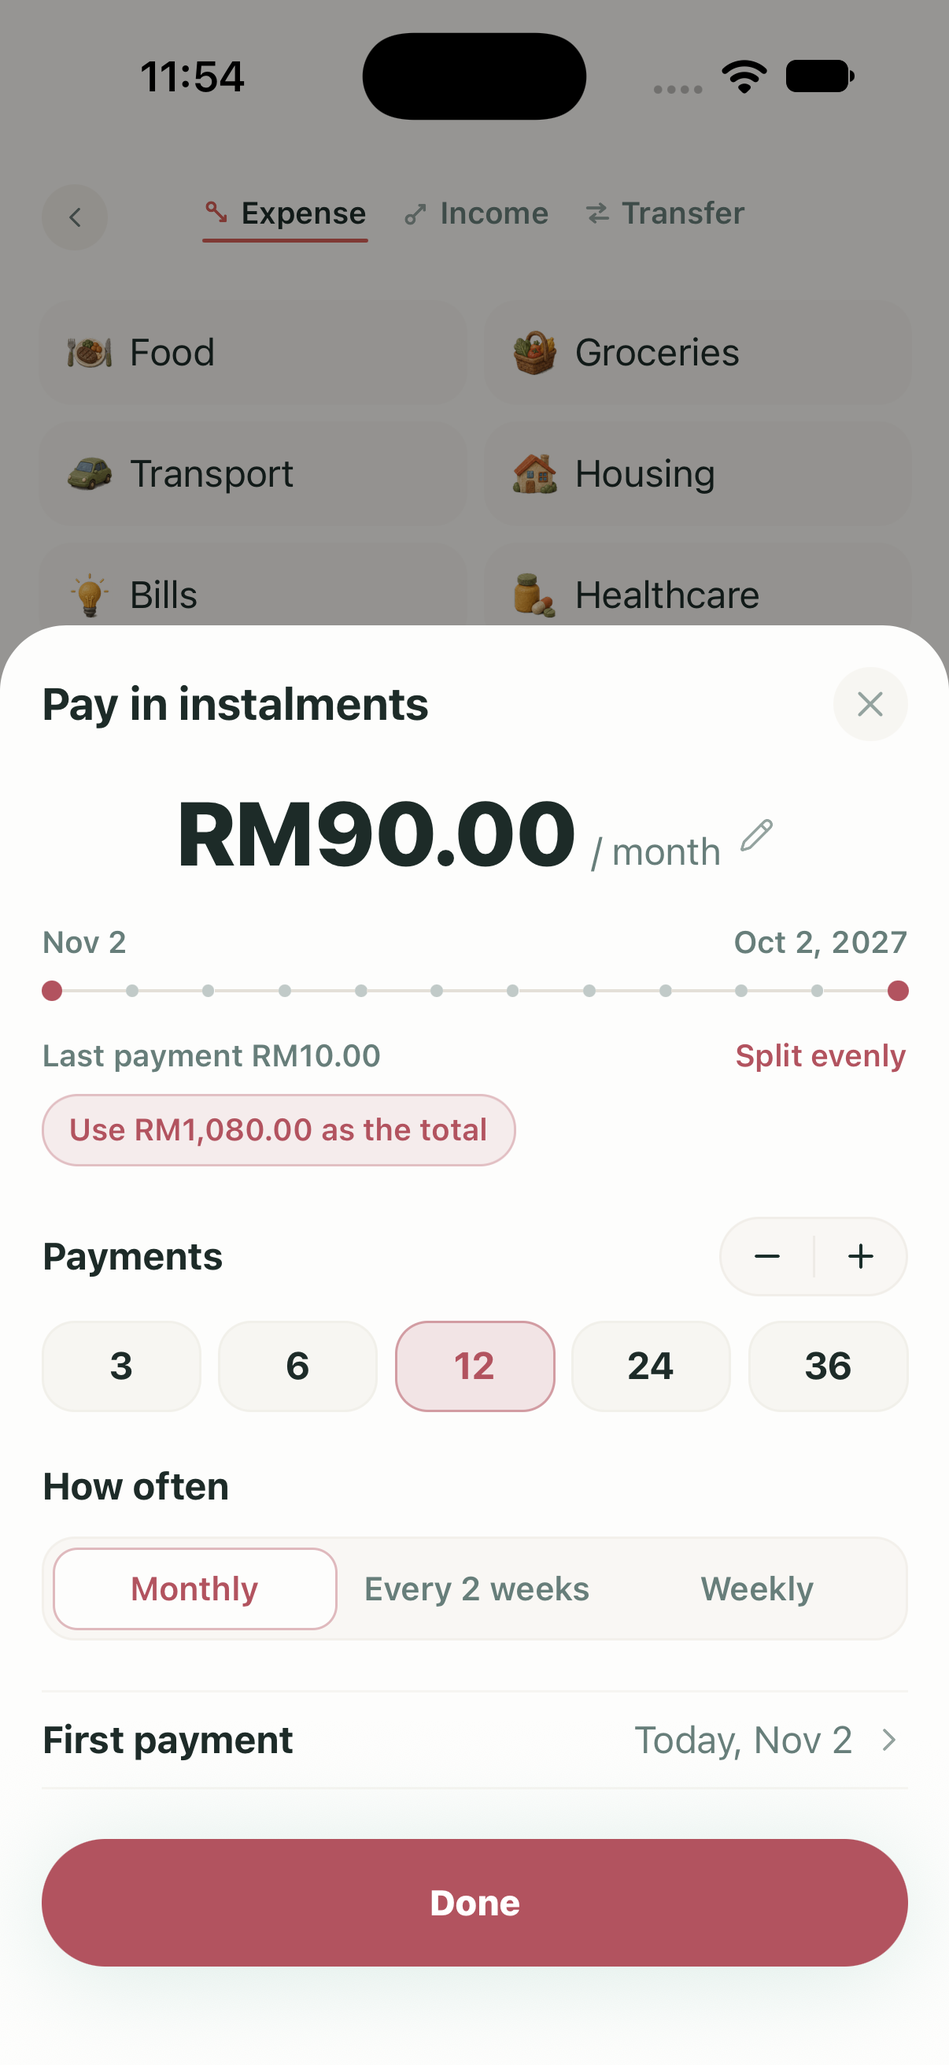
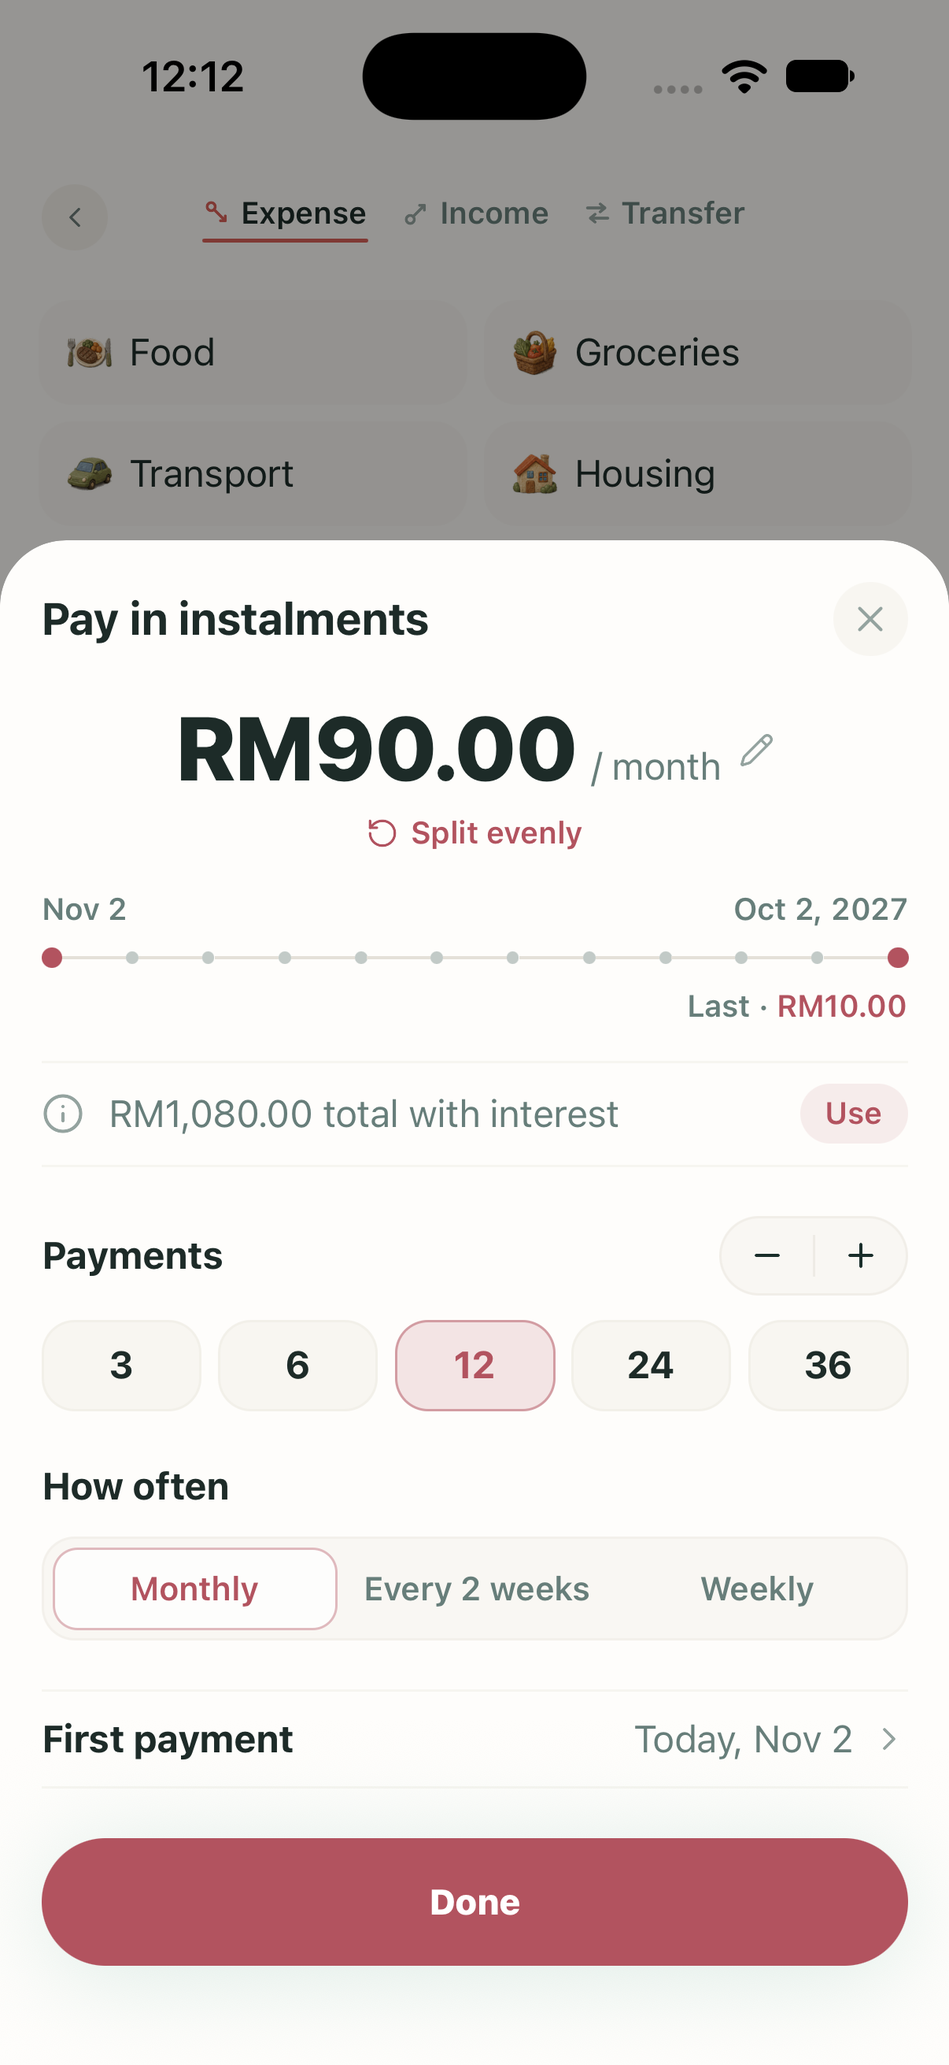
Calm the instalments sheet when the bank's amount is set
- "Split evenly" sits under the amount, shown only once one is typed.
- The last payment is a small label under the final dot of the timeline.
- The interest case is one quiet row ("RM1,080.00 total with interest",
  Use) in place of a separate line and a large pill.

diff --git a/apps/mobile/features/instalments/components/InstalmentSheet.tsx b/apps/mobile/features/instalments/components/InstalmentSheet.tsx
@@ -1,4 +1,4 @@
-import { Check, ChevronRight, Minus, Pencil, Plus, X } from 'lucide-react-native';
+import { Check, ChevronRight, Info, Minus, Pencil, Plus, RotateCcw, X } from 'lucide-react-native';
 import React, { useEffect, useMemo, useState } from 'react';
 import { Keyboard, Pressable, ScrollView, StyleSheet, TextInput, View } from 'react-native';
 import { useReanimatedKeyboardAnimation } from 'react-native-keyboard-controller';
@@ -192,31 +192,47 @@ export function InstalmentSheet({
                 <View className="items-center gap-4" accessibilityLiveRegion="polite">
                   {canSplit ? (
                     <>
-                      <PaymentAmount
-                        amount={plan.regular}
-                        evenAmount={splitInstalmentAmounts(total, choice.count)[0] ?? 0}
-                        currency={currency}
-                        perLabel={I18n.t(`instalments.per.${choice.frequency}`)}
-                        money={money}
-                        onChange={(amount) => setChoice((previous) => ({ ...previous, amount }))}
-                      />
+                      <View className="items-center gap-1">
+                        <PaymentAmount
+                          amount={plan.regular}
+                          evenAmount={splitInstalmentAmounts(total, choice.count)[0] ?? 0}
+                          currency={currency}
+                          perLabel={I18n.t(`instalments.per.${choice.frequency}`)}
+                          money={money}
+                          onChange={(amount) => setChoice((previous) => ({ ...previous, amount }))}
+                        />
+                        {/* Only once the bank's amount is typed: the way back. */}
+                        {plan.custom ? (
+                          <Pressable
+                            onPress={() => {
+                              void triggerHaptic('selection');
+                              setChoice((previous) => ({ ...previous, amount: null }));
+                            }}
+                            accessibilityRole="button"
+                            hitSlop={8}
+                            className="flex-row items-center gap-1.5 active:opacity-70"
+                          >
+                            <RotateCcw size={14} color={themeColors.primary} />
+                            <Text variant="caption" tone="primary" className="font-semibold">
+                              {I18n.t('instalments.split_evenly')}
+                            </Text>
+                          </Pressable>
+                        ) : null}
+                      </View>
                       <PaymentTimeline
                         count={choice.count}
                         from={formatPlanDay(firstPaymentIso)}
                         to={formatPlanDay(plan.lastDate)}
+                        lastAmount={plan.custom && plan.valid ? money(plan.last) : null}
                       />
-                      {plan.custom ? (
-                        <AmountBalance
-                          valid={plan.valid}
-                          last={plan.last}
-                          regular={plan.regular}
-                          count={choice.count}
-                          total={total}
+                      {plan.custom &&
+                      (!plan.valid ||
+                        regularAmountImpliesOtherTotal(total, choice.count, plan.regular)) ? (
+                        <InterestTotal
+                          sum={Math.round(plan.regular * 100 * choice.count) / 100}
+                          needed={!plan.valid}
                           money={money}
-                          onSplitEvenly={() =>
-                            setChoice((previous) => ({ ...previous, amount: null }))
-                          }
-                          onSetTotal={(sum) => {
+                          onUse={(sum) => {
                             // Amount × payments is the new total, so the even
                             // split is the bank's amount exactly.
                             onSetTotal(sum);
@@ -451,69 +467,47 @@ function PaymentAmount({
 }
 
 /**
- * How a set amount balances: the last payment takes what the others leave.
- * When the payments come to clearly more than the total (interest or a
- * fee), it offers that sum as the total instead.
+ * When the bank's amount × payments is clearly more than the total (interest
+ * or a fee), one quiet row offers that sum as the total. When the amount
+ * leaves nothing for the last payment it is the only way on, so it is red.
  */
-function AmountBalance({
-  valid,
-  last,
-  regular,
-  count,
-  total,
+function InterestTotal({
+  sum,
+  needed,
   money,
-  onSplitEvenly,
-  onSetTotal,
+  onUse,
 }: {
-  valid: boolean;
-  last: number;
-  regular: number;
-  count: number;
-  total: number;
+  sum: number;
+  needed: boolean;
   money: (amount: number) => string;
-  onSplitEvenly: () => void;
-  onSetTotal: (total: number) => void;
+  onUse: (sum: number) => void;
 }) {
-  const sum = Math.round(regular * 100 * count) / 100;
-  const offerTotal = !valid || regularAmountImpliesOtherTotal(total, count, regular);
+  const themeColors = useThemeColors();
+  const tint = needed ? themeColors.error : themeColors.textMuted;
   return (
-    <View className="gap-2 self-stretch">
-      <View className="flex-row items-center justify-between gap-3">
-        <Text
-          variant="caption"
-          tone={valid ? 'muted' : 'error'}
-          className="min-w-0 flex-1"
-          numberOfLines={2}
-        >
-          {valid
-            ? I18n.t('instalments.last_payment', { amount: money(last) })
-            : I18n.t('instalments.amount_over_total', {
-                amount: money(regular),
-                count,
-                sum: money(sum),
-              })}
+    <Pressable
+      onPress={() => {
+        void triggerHaptic('selection');
+        onUse(sum);
+      }}
+      accessibilityRole="button"
+      className="flex-row items-center gap-3 self-stretch border-y border-border/30 py-2.5 active:opacity-70"
+    >
+      <Info size={18} color={tint} />
+      <Text
+        variant="body"
+        tone={needed ? 'error' : 'muted'}
+        className="min-w-0 flex-1"
+        numberOfLines={1}
+      >
+        {I18n.t('instalments.total_with_interest', { amount: money(sum) })}
+      </Text>
+      <View className="rounded-full bg-primary/10 px-3 py-1">
+        <Text variant="caption" tone="primary" className="font-semibold">
+          {I18n.t('instalments.use_total')}
         </Text>
-        <Pressable onPress={onSplitEvenly} accessibilityRole="button" hitSlop={8}>
-          <Text variant="caption" tone="primary" className="font-semibold">
-            {I18n.t('instalments.split_evenly')}
-          </Text>
-        </Pressable>
       </View>
-      {offerTotal ? (
-        <Pressable
-          onPress={() => {
-            void triggerHaptic('selection');
-            onSetTotal(sum);
-          }}
-          accessibilityRole="button"
-          className="self-start rounded-full border border-primary/30 bg-primary/10 px-3 py-1.5 active:opacity-70"
-        >
-          <Text variant="caption" tone="primary" className="font-semibold">
-            {I18n.t('instalments.use_as_total', { amount: money(sum) })}
-          </Text>
-        </Pressable>
-      ) : null}
-    </View>
+    </Pressable>
   );
 }
 
@@ -521,10 +515,28 @@ function AmountBalance({
 const MAX_TIMELINE_DOTS = 24;
 
 /** The plan at a glance: one dot per payment between the first and last dates. */
-function PaymentTimeline({ count, from, to }: { count: number; from: string; to: string }) {
+function PaymentTimeline({
+  count,
+  from,
+  to,
+  lastAmount,
+}: {
+  count: number;
+  from: string;
+  to: string;
+  /** The last payment, under its dot, when it differs from the others. */
+  lastAmount: string | null;
+}) {
   const dots = count <= MAX_TIMELINE_DOTS ? count : 2;
+  const lastLabel = I18n.t('instalments.last_short');
   return (
-    <View className="gap-2 self-stretch" accessible accessibilityLabel={`${from} – ${to}`}>
+    <View
+      className="gap-2 self-stretch"
+      accessible
+      accessibilityLabel={[`${from} – ${to}`, lastAmount ? `${lastLabel} ${lastAmount}` : null]
+        .filter(Boolean)
+        .join(', ')}
+    >
       <View className="flex-row justify-between gap-2">
         <Text variant="caption" tone="muted" numberOfLines={1}>
           {from}
@@ -549,6 +561,14 @@ function PaymentTimeline({ count, from, to }: { count: number; from: string; to:
           );
         })}
       </View>
+      {lastAmount ? (
+        <Text variant="caption" tone="muted" className="self-end" numberOfLines={1}>
+          {`${lastLabel} · `}
+          <Text variant="caption" tone="primary" className="font-semibold">
+            {lastAmount}
+          </Text>
+        </Text>
+      ) : null}
     </View>
   );
 }

diff --git a/apps/mobile/lib/i18n/locales/hi.ts b/apps/mobile/lib/i18n/locales/hi.ts
@@ -1722,11 +1722,11 @@ const hi = {
     total_too_small: '{{count}} किस्तों में बाँटने के लिए बहुत कम है।',
     payment_amount: 'किस्त की राशि',
     edit_amount_hint: 'हर बार बैंक जितनी राशि लेता है, वह डालें।',
-    last_payment: 'आखिरी किस्त {{amount}}',
     last_amount: 'आखिरी {{amount}}',
     split_evenly: 'बराबर बाँटें',
-    amount_over_total: '{{amount}} × {{count}} = {{sum}}, कुल से ज़्यादा।',
-    use_as_total: '{{amount}} को कुल राशि बनाएँ',
+    total_with_interest: 'ब्याज सहित कुल {{amount}}',
+    use_total: 'लागू करें',
+    last_short: 'आखिरी',
     amount_too_large: 'बहुत ज़्यादा: किस्तें कुल से ज़्यादा हो जाएँगी।',
     extras_need_today:
       'रसीद, विवरण या प्रतिपूर्ति रखने के लिए पहली किस्त आज या उससे पहले की होनी चाहिए।',

diff --git a/apps/mobile/lib/i18n/locales/th.ts b/apps/mobile/lib/i18n/locales/th.ts
@@ -1700,11 +1700,11 @@ const th = {
     total_too_small: 'ยอดน้อยเกินกว่าจะแบ่งเป็น {{count}} งวด',
     payment_amount: 'ยอดต่องวด',
     edit_amount_hint: 'กรอกยอดที่ธนาคารเรียกเก็บในแต่ละงวด',
-    last_payment: 'งวดสุดท้าย {{amount}}',
     last_amount: 'งวดสุดท้าย {{amount}}',
     split_evenly: 'แบ่งเท่ากัน',
-    amount_over_total: '{{amount}} × {{count}} = {{sum}} มากกว่ายอดรวม',
-    use_as_total: 'ใช้ {{amount}} เป็นยอดรวม',
+    total_with_interest: 'รวม {{amount}} พร้อมดอกเบี้ย',
+    use_total: 'ใช้',
+    last_short: 'งวดสุดท้าย',
     amount_too_large: 'มากเกินไป: ยอดผ่อนรวมจะเกินยอดรวม',
     extras_need_today:
       'หากต้องการเก็บใบเสร็จ รายละเอียด หรือการเบิกคืนไว้ งวดแรกต้องเป็นวันนี้หรือก่อนหน้า',

diff --git a/apps/mobile/lib/i18n/locales/ru.ts b/apps/mobile/lib/i18n/locales/ru.ts
@@ -1734,11 +1734,11 @@ const ru = {
     total_too_small: 'Слишком мало, чтобы разделить на платежи: {{count}}.',
     payment_amount: 'Сумма платежа',
     edit_amount_hint: 'Введите сумму, которую банк списывает каждый раз.',
-    last_payment: 'Последний платёж {{amount}}',
     last_amount: 'последний {{amount}}',
     split_evenly: 'Разделить поровну',
-    amount_over_total: '{{amount}} × {{count}} = {{sum}}, больше общей суммы.',
-    use_as_total: 'Сделать {{amount}} общей суммой',
+    total_with_interest: '{{amount}} всего с процентами',
+    use_total: 'Применить',
+    last_short: 'Последний',
     amount_too_large: 'Слишком много: платежи превысят общую сумму.',
     extras_need_today:
       'Чтобы сохранить чек, подробности или возмещение, первый платёж должен быть сегодня или раньше.',

diff --git a/apps/mobile/lib/i18n/locales/uk.ts b/apps/mobile/lib/i18n/locales/uk.ts
@@ -1728,11 +1728,11 @@ const uk = {
     total_too_small: 'Замало, щоб розділити на платежі: {{count}}.',
     payment_amount: 'Сума платежу',
     edit_amount_hint: 'Введіть суму, яку банк списує щоразу.',
-    last_payment: 'Останній платіж {{amount}}',
     last_amount: 'останній {{amount}}',
     split_evenly: 'Розділити порівну',
-    amount_over_total: '{{amount}} × {{count}} = {{sum}}, більше за загальну суму.',
-    use_as_total: 'Зробити {{amount}} загальною сумою',
+    total_with_interest: '{{amount}} усього з відсотками',
+    use_total: 'Застосувати',
+    last_short: 'Останній',
     amount_too_large: 'Забагато: платежі перевищать загальну суму.',
     extras_need_today:
       'Щоб зберегти чек, подробиці або відшкодування, перший платіж має бути сьогодні або раніше.',

diff --git a/apps/mobile/lib/i18n/locales/ja.ts b/apps/mobile/lib/i18n/locales/ja.ts
@@ -1721,11 +1721,11 @@ const ja = {
     total_too_small: '{{count}} 回に分けるには少なすぎます。',
     payment_amount: '1回の支払額',
     edit_amount_hint: '銀行が毎回請求する金額を入力してください。',
-    last_payment: '最終回 {{amount}}',
     last_amount: '最終回 {{amount}}',
     split_evenly: '均等に分ける',
-    amount_over_total: '{{amount}} × {{count}} = {{sum}}、合計を超えています。',
-    use_as_total: '{{amount}} を合計にする',
+    total_with_interest: '利息込みで合計 {{amount}}',
+    use_total: '適用',
+    last_short: '最終回',
     amount_too_large: '金額が大きすぎます: 支払いの合計が総額を超えます。',
     extras_need_today: 'レシート、詳細、立て替えを残すには、初回の支払いを今日以前にしてください。',
     remove: '分割払いを解除',

diff --git a/apps/mobile/lib/i18n/locales/fr.ts b/apps/mobile/lib/i18n/locales/fr.ts
@@ -1745,11 +1745,11 @@ const fr = {
     total_too_small: 'Trop petit pour être réparti en {{count}} échéances.',
     payment_amount: 'Montant des échéances',
     edit_amount_hint: 'Saisissez le montant que votre banque prélève à chaque fois.',
-    last_payment: 'Dernière échéance {{amount}}',
     last_amount: 'dernière {{amount}}',
     split_evenly: 'Répartir également',
-    amount_over_total: '{{amount}} × {{count}} = {{sum}}, plus que le total.',
-    use_as_total: 'Utiliser {{amount}} comme total',
+    total_with_interest: '{{amount}} au total avec intérêts',
+    use_total: 'Utiliser',
+    last_short: 'Dernière',
     amount_too_large: 'Trop élevé : les échéances dépasseraient le total.',
     extras_need_today:
       "Pour garder un reçu, des détails ou un remboursement, la première échéance doit être aujourd'hui ou avant.",

diff --git a/apps/mobile/lib/i18n/locales/ko.ts b/apps/mobile/lib/i18n/locales/ko.ts
@@ -1706,11 +1706,11 @@ const ko = {
     total_too_small: '{{count}}회로 나누기에는 너무 적어요.',
     payment_amount: '회차별 금액',
     edit_amount_hint: '은행이 매번 청구하는 금액을 입력하세요.',
-    last_payment: '마지막 회차 {{amount}}',
     last_amount: '마지막 {{amount}}',
     split_evenly: '균등하게 나누기',
-    amount_over_total: '{{amount}} × {{count}} = {{sum}}, 총액보다 많아요.',
-    use_as_total: '{{amount}}을(를) 총액으로 사용',
+    total_with_interest: '이자 포함 총 {{amount}}',
+    use_total: '적용',
+    last_short: '마지막',
     amount_too_large: '너무 커요: 납부액 합계가 총액을 넘어요.',
     extras_need_today:
       '영수증, 세부 정보 또는 환급을 유지하려면 첫 납부일이 오늘 또는 그 이전이어야 합니다.',

diff --git a/apps/mobile/lib/i18n/locales/ms.ts b/apps/mobile/lib/i18n/locales/ms.ts
@@ -1740,11 +1740,11 @@ const ms = {
     total_too_small: 'Terlalu kecil untuk dibahagi kepada {{count}} bayaran.',
     payment_amount: 'Jumlah bayaran',
     edit_amount_hint: 'Taip jumlah yang dicaj bank anda setiap kali.',
-    last_payment: 'Bayaran terakhir {{amount}}',
     last_amount: 'terakhir {{amount}}',
     split_evenly: 'Bahagi sama rata',
-    amount_over_total: '{{amount}} × {{count}} = {{sum}}, lebih daripada jumlah keseluruhan.',
-    use_as_total: 'Guna {{amount}} sebagai jumlah keseluruhan',
+    total_with_interest: 'Jumlah {{amount}} dengan faedah',
+    use_total: 'Guna',
+    last_short: 'Terakhir',
     amount_too_large: 'Terlalu besar: bayaran akan melebihi jumlah keseluruhan.',
     extras_need_today:
       'Untuk menyimpan resit, butiran atau bayaran balik, bayaran pertama mesti hari ini atau lebih awal.',

diff --git a/apps/mobile/lib/i18n/locales/vi.ts b/apps/mobile/lib/i18n/locales/vi.ts
@@ -1715,11 +1715,11 @@ const vi = {
     total_too_small: 'Quá nhỏ để chia thành {{count}} kỳ.',
     payment_amount: 'Số tiền mỗi kỳ',
     edit_amount_hint: 'Nhập số tiền ngân hàng trừ mỗi kỳ.',
-    last_payment: 'Kỳ cuối {{amount}}',
     last_amount: 'kỳ cuối {{amount}}',
     split_evenly: 'Chia đều',
-    amount_over_total: '{{amount}} × {{count}} = {{sum}}, nhiều hơn tổng.',
-    use_as_total: 'Dùng {{amount}} làm tổng',
+    total_with_interest: 'Tổng {{amount}} kèm lãi',
+    use_total: 'Dùng',
+    last_short: 'Kỳ cuối',
     amount_too_large: 'Quá lớn: các kỳ cộng lại sẽ vượt tổng.',
     extras_need_today:
       'Để giữ biên lai, chi tiết hoặc hoàn tiền, kỳ đầu tiên phải là hôm nay hoặc trước đó.',

diff --git a/apps/mobile/lib/i18n/locales/fil.ts b/apps/mobile/lib/i18n/locales/fil.ts
@@ -1751,11 +1751,11 @@ const fil = {
     total_too_small: 'Masyadong maliit para hatiin sa {{count}} na hulog.',
     payment_amount: 'Halaga ng hulog',
     edit_amount_hint: 'I-type ang halagang sinisingil ng bangko mo bawat hulog.',
-    last_payment: 'Huling hulog {{amount}}',
     last_amount: 'huling {{amount}}',
     split_evenly: 'Hatiin nang pantay',
-    amount_over_total: '{{amount}} × {{count}} = {{sum}}, higit sa kabuuan.',
-    use_as_total: 'Gawing kabuuan ang {{amount}}',
+    total_with_interest: '{{amount}} kabuuan kasama ang interes',
+    use_total: 'Gamitin',
+    last_short: 'Huli',
     amount_too_large: 'Masyadong malaki: lalampas sa kabuuan ang mga hulog.',
     extras_need_today:
       'Para mapanatili ang resibo, detalye o reimbursement, dapat ngayong araw o mas maaga ang unang hulog.',

diff --git a/apps/mobile/lib/i18n/locales/id.ts b/apps/mobile/lib/i18n/locales/id.ts
@@ -1736,11 +1736,11 @@ const id = {
     total_too_small: 'Terlalu kecil untuk dibagi menjadi {{count}} pembayaran.',
     payment_amount: 'Jumlah cicilan',
     edit_amount_hint: 'Ketik jumlah yang ditagih bank setiap kali.',
-    last_payment: 'Pembayaran terakhir {{amount}}',
     last_amount: 'terakhir {{amount}}',
     split_evenly: 'Bagi rata',
-    amount_over_total: '{{amount}} × {{count}} = {{sum}}, lebih dari total.',
-    use_as_total: 'Jadikan {{amount}} sebagai total',
+    total_with_interest: 'Total {{amount}} dengan bunga',
+    use_total: 'Pakai',
+    last_short: 'Terakhir',
     amount_too_large: 'Terlalu besar: total pembayaran akan melebihi total.',
     extras_need_today:
       'Agar struk, detail, atau penggantian tetap tersimpan, pembayaran pertama harus hari ini atau sebelumnya.',
